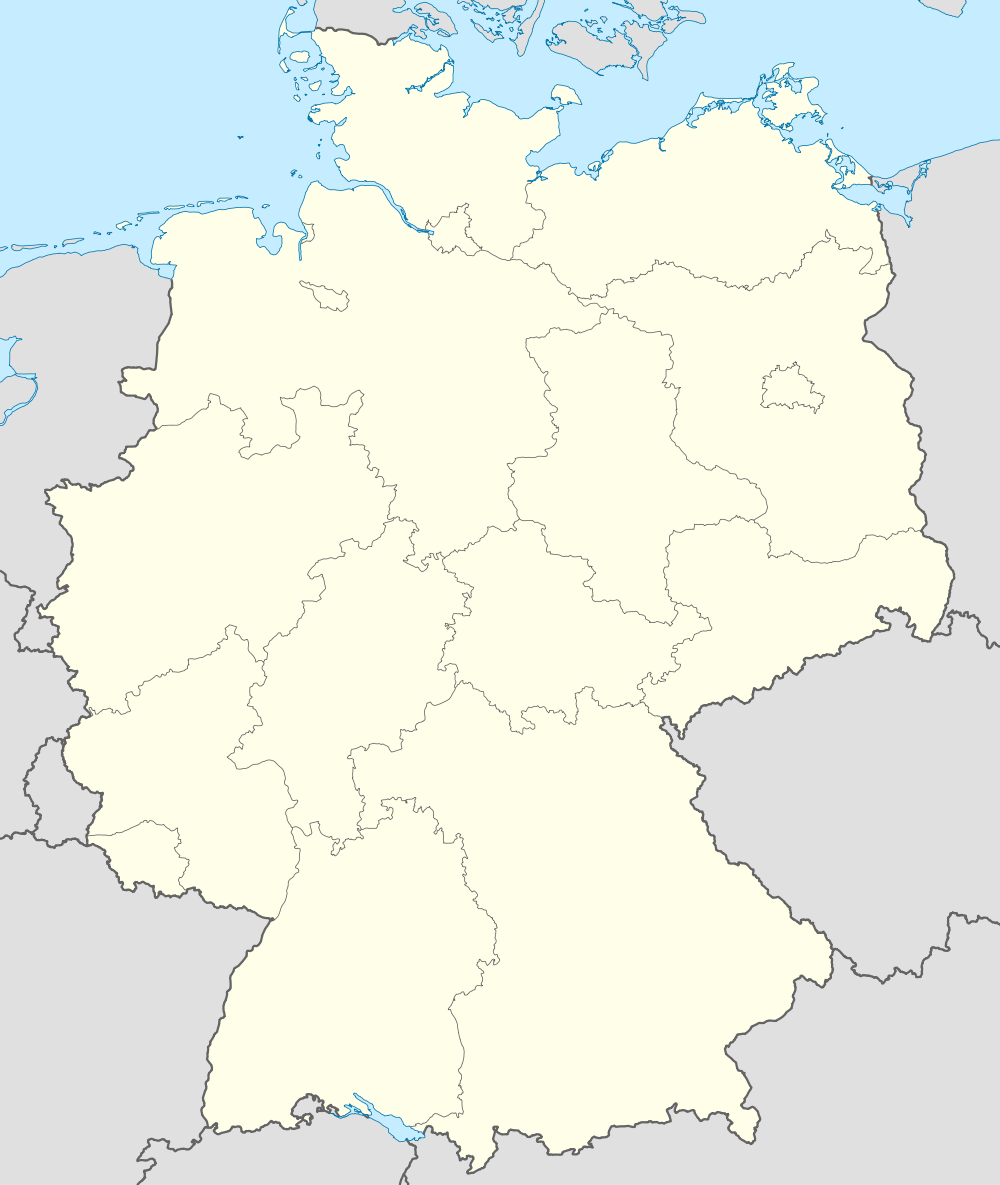
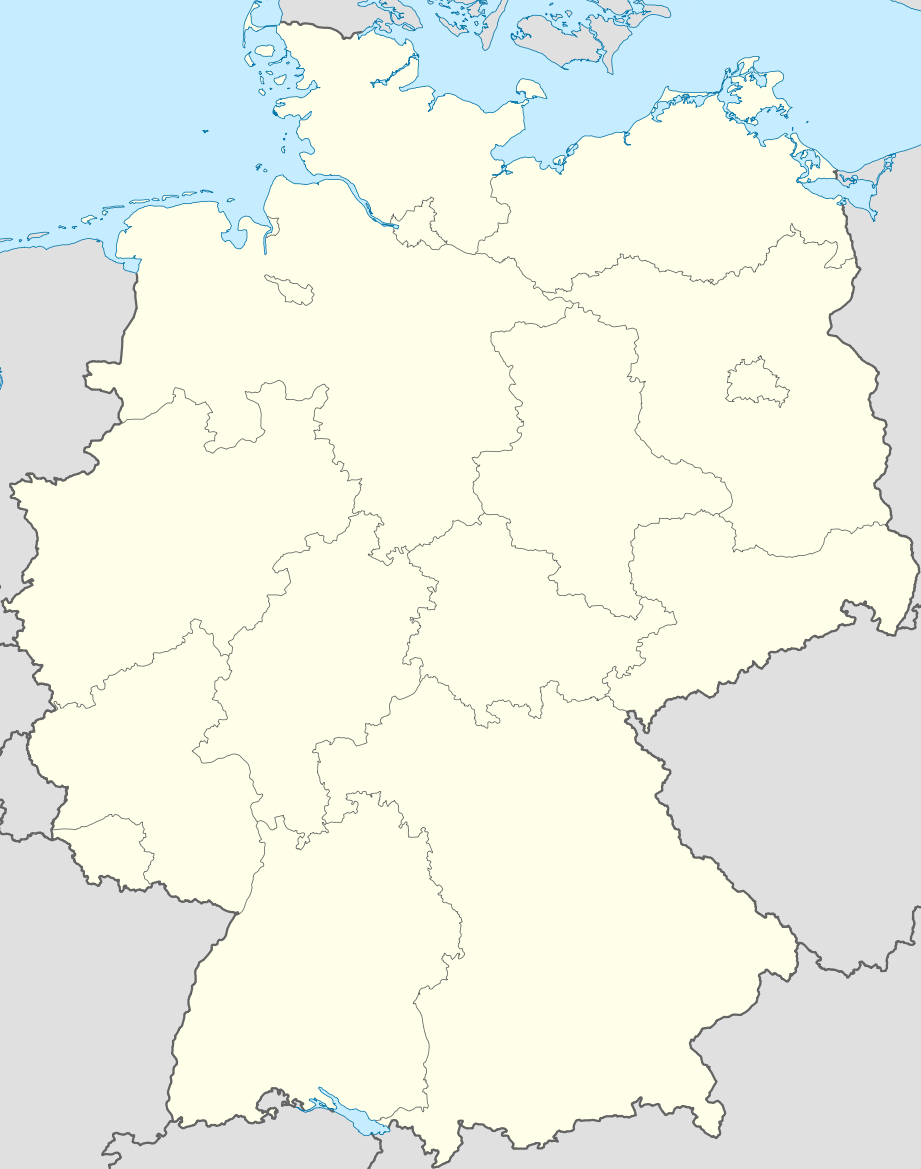
simple gui

diff --git a/src/main/java/de/hsbremen/kss/gui/MapCanvas.java b/src/main/java/de/hsbremen/kss/gui/MapCanvas.java
@@ -1,0 +1,71 @@
+package de.hsbremen.kss.gui;
+
+import java.awt.Canvas;
+import java.awt.Graphics;
+import java.awt.Image;
+import java.io.IOException;
+import java.io.InputStream;
+import java.util.Collection;
+
+import javax.imageio.ImageIO;
+
+import org.apache.commons.math3.geometry.euclidean.twod.Vector2D;
+
+import de.hsbremen.kss.configuration.Station;
+
+public class MapCanvas extends Canvas {
+
+    private static final int SPACE_BETWEEN_CIRCLE_TEXT = 5;
+
+    private static final int BORDER = 5;
+
+    private static final int CIRCLE_SIZE = 4;
+
+    private final int width;
+
+    private final int height;
+
+    private final Collection<Station> stations;
+
+    private Image image;
+
+    public MapCanvas(final int width, final int height, final Collection<Station> stations) {
+        super();
+        this.width = width;
+        this.height = height;
+        this.stations = stations;
+
+        final InputStream is = MapCanvas.class.getResourceAsStream("/deutschland.png");
+
+        try {
+            this.image = ImageIO.read(is);
+        } catch (final IOException e) {
+            // TODO Auto-generated catch block
+            e.printStackTrace();
+        }
+    }
+
+    @Override
+    public void paint(final Graphics g) {
+        final int screenWidth = getSize().width;
+        final int screenHeight = getSize().height;
+
+        final double scaleWidth = (double) (screenWidth - 2 * MapCanvas.BORDER) / (double) this.width;
+        final double scaleHeight = (double) (screenHeight - 2 * MapCanvas.BORDER) / (double) this.height;
+
+        final double scale = scaleWidth < scaleHeight ? scaleWidth : scaleHeight;
+
+        g.drawImage(this.image, MapCanvas.BORDER, MapCanvas.BORDER, (int) (this.width * scale - MapCanvas.BORDER),
+                (int) (this.height * scale - MapCanvas.BORDER), getParent());
+
+        for (final Station s : this.stations) {
+            final Vector2D coords = s.getCoordinates();
+            final int x = (int) (coords.getX() * scale) + MapCanvas.BORDER;
+            final int y = screenHeight - (int) (coords.getY() * scale) - MapCanvas.BORDER;
+
+            g.drawOval(x - MapCanvas.CIRCLE_SIZE / 2, y - MapCanvas.CIRCLE_SIZE / 2, MapCanvas.CIRCLE_SIZE, MapCanvas.CIRCLE_SIZE);
+            g.drawString(s.getName(), x + MapCanvas.SPACE_BETWEEN_CIRCLE_TEXT, y + MapCanvas.CIRCLE_SIZE);
+
+        }
+    }
+}

diff --git a/src/main/java/de/hsbremen/kss/App.java b/src/main/java/de/hsbremen/kss/App.java
@@ -5,6 +5,8 @@ import java.util.ArrayList;
 import java.util.Arrays;
 import java.util.List;
 
+import javax.swing.SwingUtilities;
+
 import org.joda.time.Instant;
 import org.joda.time.Interval;
 import org.slf4j.Logger;
@@ -23,6 +25,7 @@ import de.hsbremen.kss.construction.NearestNeighbor;
 import de.hsbremen.kss.construction.RadialConstruction;
 import de.hsbremen.kss.construction.RandomConstruction;
 import de.hsbremen.kss.construction.SavingsContruction;
+import de.hsbremen.kss.gui.MainFrame;
 import de.hsbremen.kss.model.Plan;
 import de.hsbremen.kss.timing.ConstructionTimeMeasuring;
 import de.hsbremen.kss.validate.SimpleValidator;
@@ -41,7 +44,7 @@ public final class App {
     private static final int NUM_OF_RANDOM_PLANS = 2000;
 
     /** number of random plans to generate. */
-    private static final int MAX_MISSES = 2000;
+    private static final int MAX_MISSES = 50;
 
     /**
      * static class
@@ -120,6 +123,13 @@ public final class App {
             App.LOG.info("plan is valid: " + validator.validate(configuration, plan));
             plan.logTours();
         }
+
+        SwingUtilities.invokeLater(new Runnable() {
+            @Override
+            public void run() {
+                new MainFrame(configuration);
+            }
+        });
 
     }
 }

diff --git a/src/main/java/de/hsbremen/kss/gui/MainFrame.java b/src/main/java/de/hsbremen/kss/gui/MainFrame.java
@@ -1,0 +1,20 @@
+package de.hsbremen.kss.gui;
+
+import javax.swing.JFrame;
+
+import de.hsbremen.kss.configuration.Configuration;
+
+public class MainFrame extends JFrame {
+
+    public MainFrame(final Configuration configuration) {
+        super("Logistik");
+
+        setSize(800, 400);
+
+        setDefaultCloseOperation(JFrame.EXIT_ON_CLOSE);
+        setVisible(true);
+
+        final MapCanvas canvas = new MapCanvas(632, 876, configuration.getStations());
+        add(canvas);
+    }
+}
